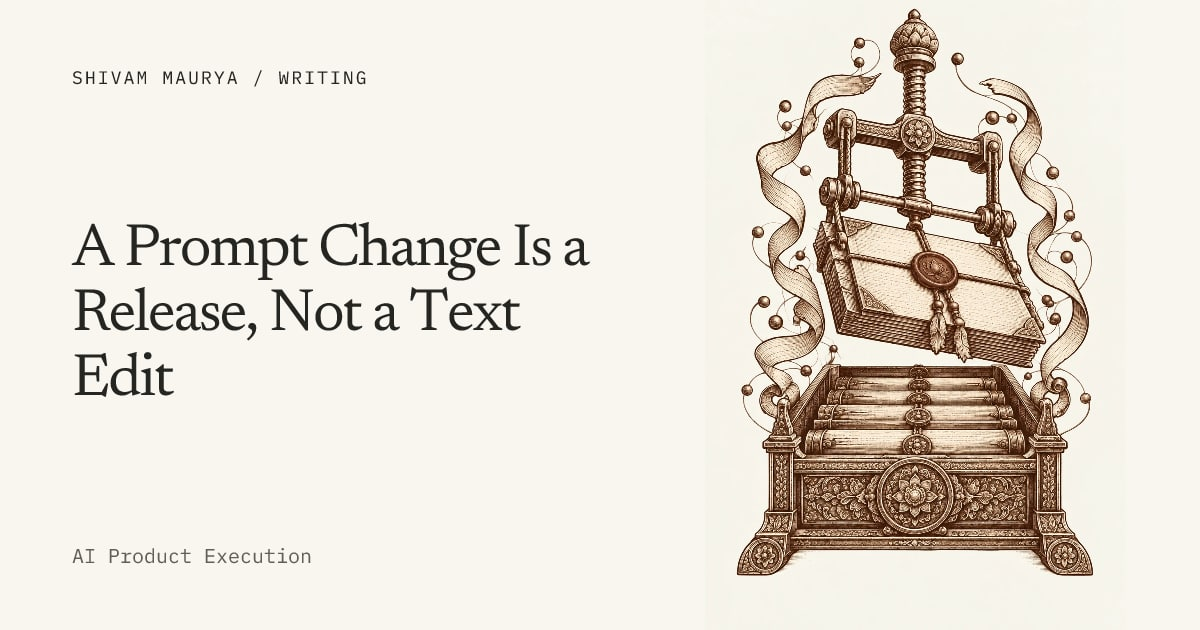
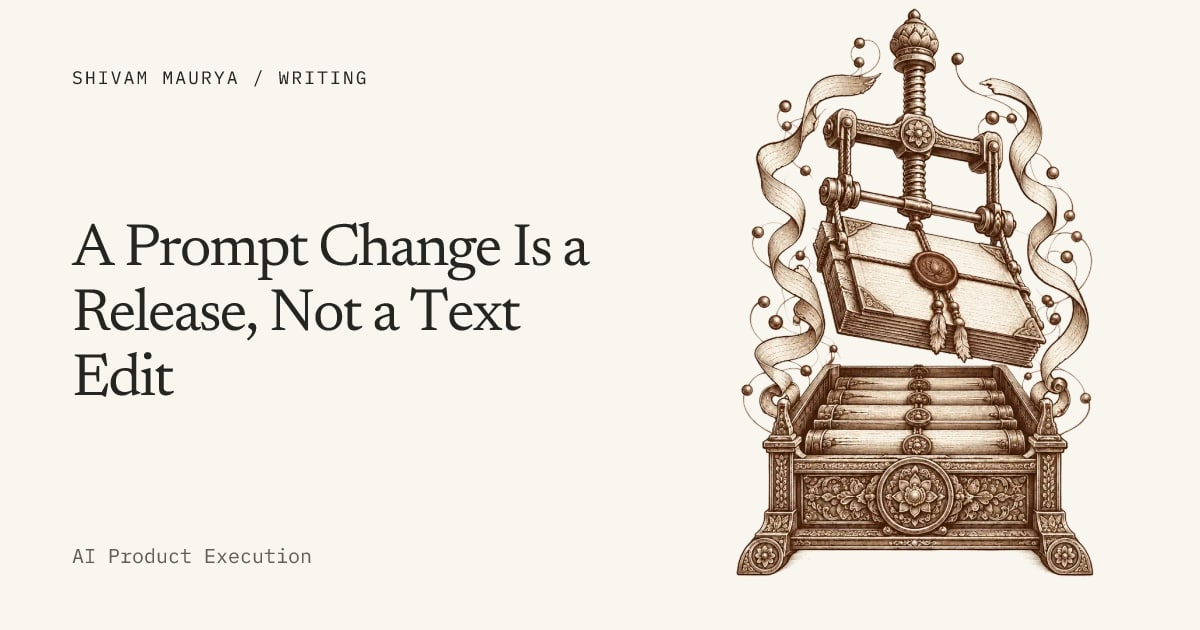
Remove writing artwork backgrounds and serve ready-sized images

Changed region(s): [[0.6167, 0.0302, 0.925, 0.9349]]

diff --git a/src/app/reference-site.css b/src/app/reference-site.css
@@ -4,7 +4,7 @@ body { background:var(--reference-paper) !important; }
 .portfolio-site { box-sizing:border-box; min-height:100vh; background:var(--reference-paper); color:var(--reference-ink); font-family:ui-monospace,SFMono-Regular,Menlo,Monaco,Consolas,monospace; font-size:13px; line-height:1.6; }
 .portfolio-site > main { min-height:calc(100vh - 113px); }
 .margin-artwork { display:none; }
-.writing-inline-artwork { display:block; width:min(100%,420px); height:auto; margin:42px auto 0; object-fit:contain; mask-image:radial-gradient(ellipse 85% 75% at center,black 65%,transparent 100%); -webkit-mask-image:radial-gradient(ellipse 85% 75% at center,black 65%,transparent 100%); }
+.writing-inline-artwork { display:block; width:min(100%,420px); height:auto; margin:42px auto 0; object-fit:contain; }
 @media(min-width:1200px) {
   .margin-artwork { position:fixed; top:50%; left:calc(50vw + 388px); z-index:0; display:block; width:clamp(310px,27vw,430px); opacity:1; transform:translate(-50%,-50%); transition:opacity .3s ease; pointer-events:none; }
   .margin-artwork.is-footer-near { opacity:0; }

diff --git a/src/app/writing/[slug]/page.js b/src/app/writing/[slug]/page.js
@@ -75,13 +75,15 @@ export default async function WritingPage({ params }) {
             {article.contentAfter}
           </p>
           <Image
-            src={`/writing-artwork/${article.slug}-light.webp`}
+            src={`/writing-artwork/cutout/${article.slug}.webp`}
             alt={`Illustration for ${article.blogHeading}`}
-            width={1024}
-            height={1536}
+            width={720}
+            height={1080}
             sizes="(max-width: 760px) min(100vw - 40px, 340px), 420px"
             className="writing-inline-artwork"
             priority
+            fetchPriority="high"
+            unoptimized
           />
         </header>
 
